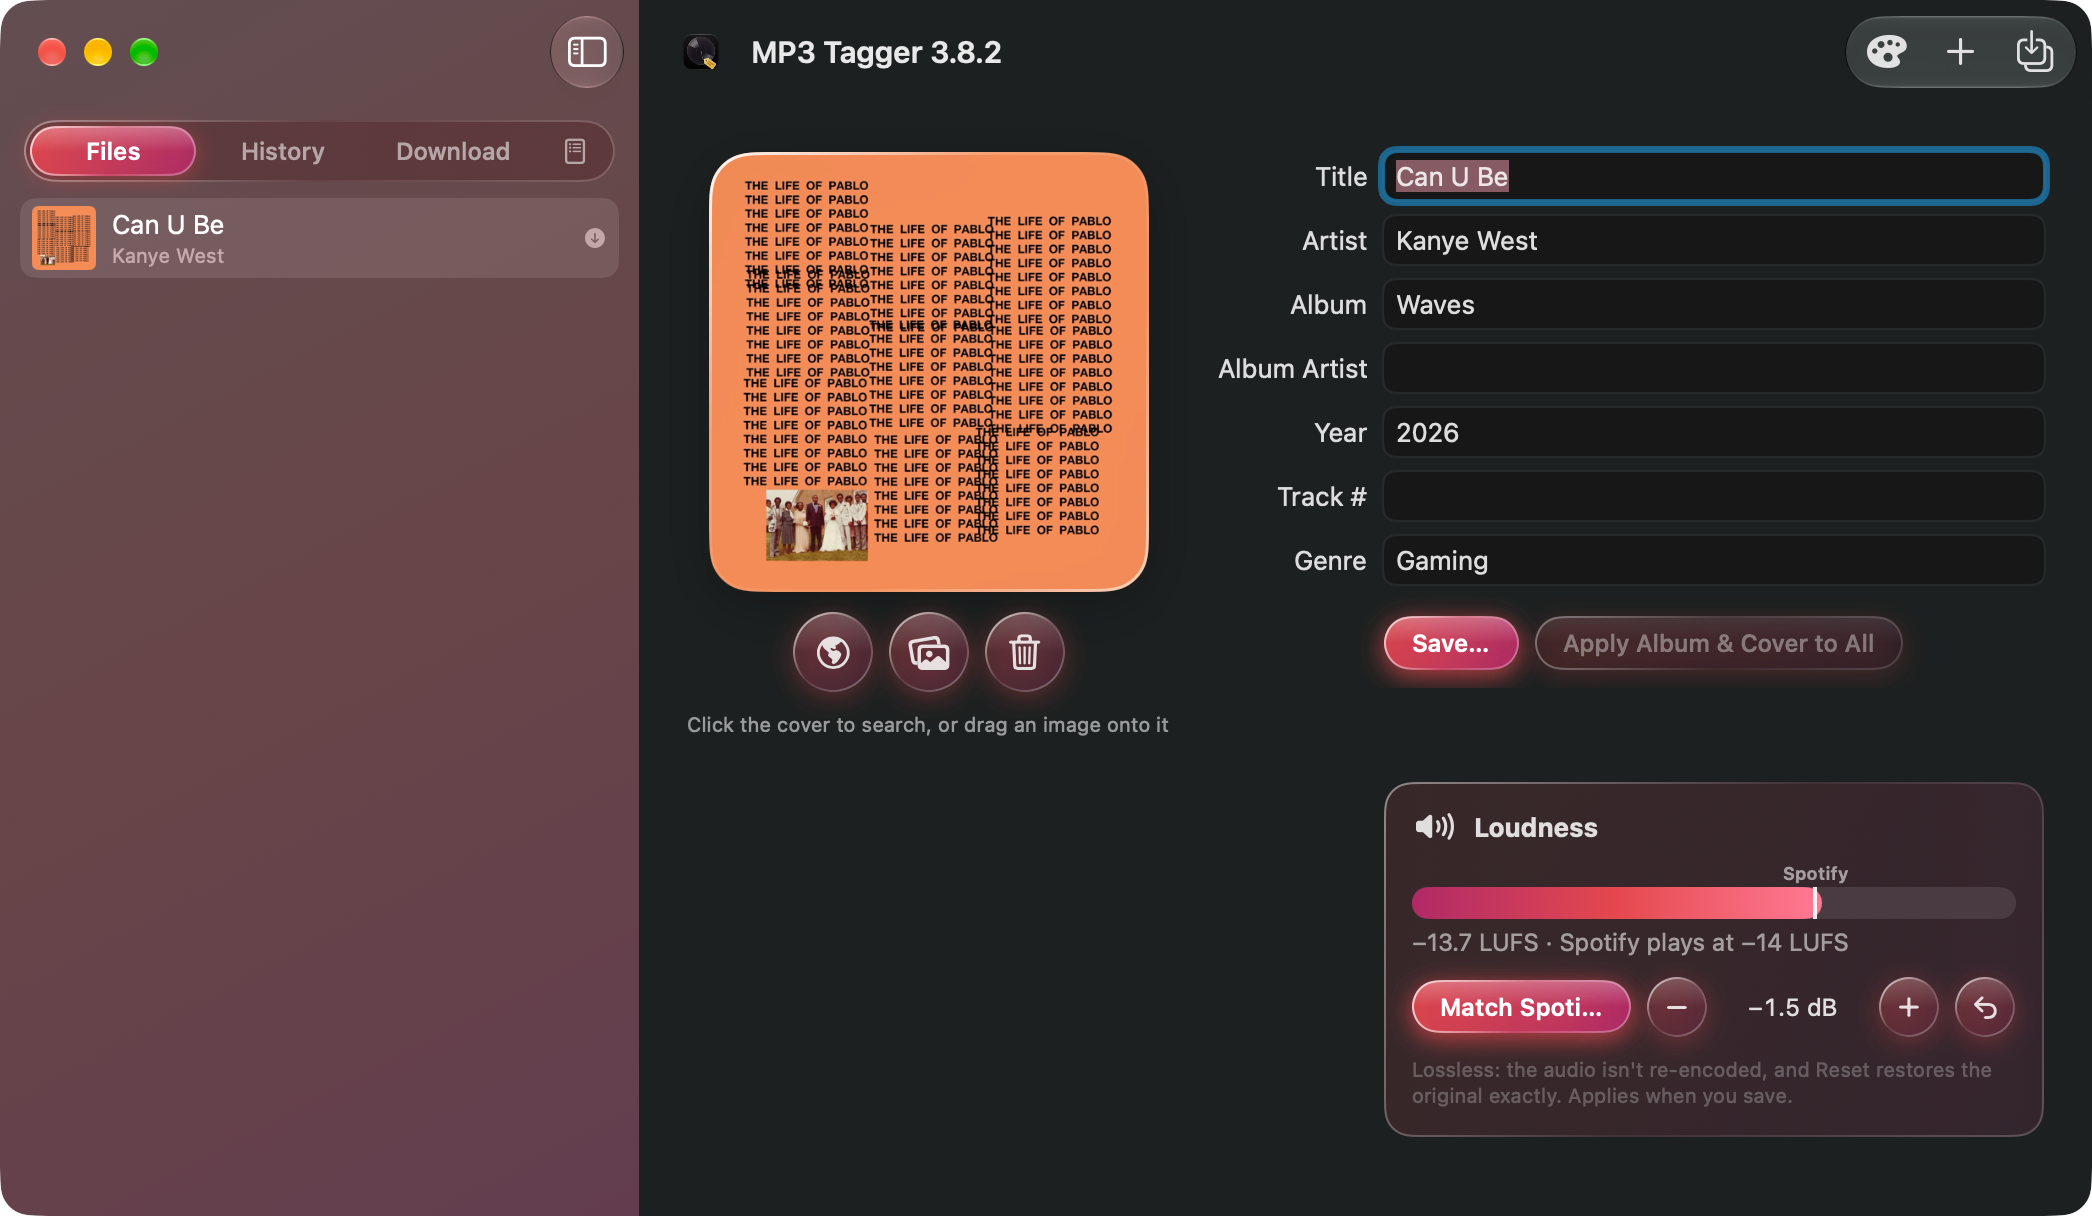
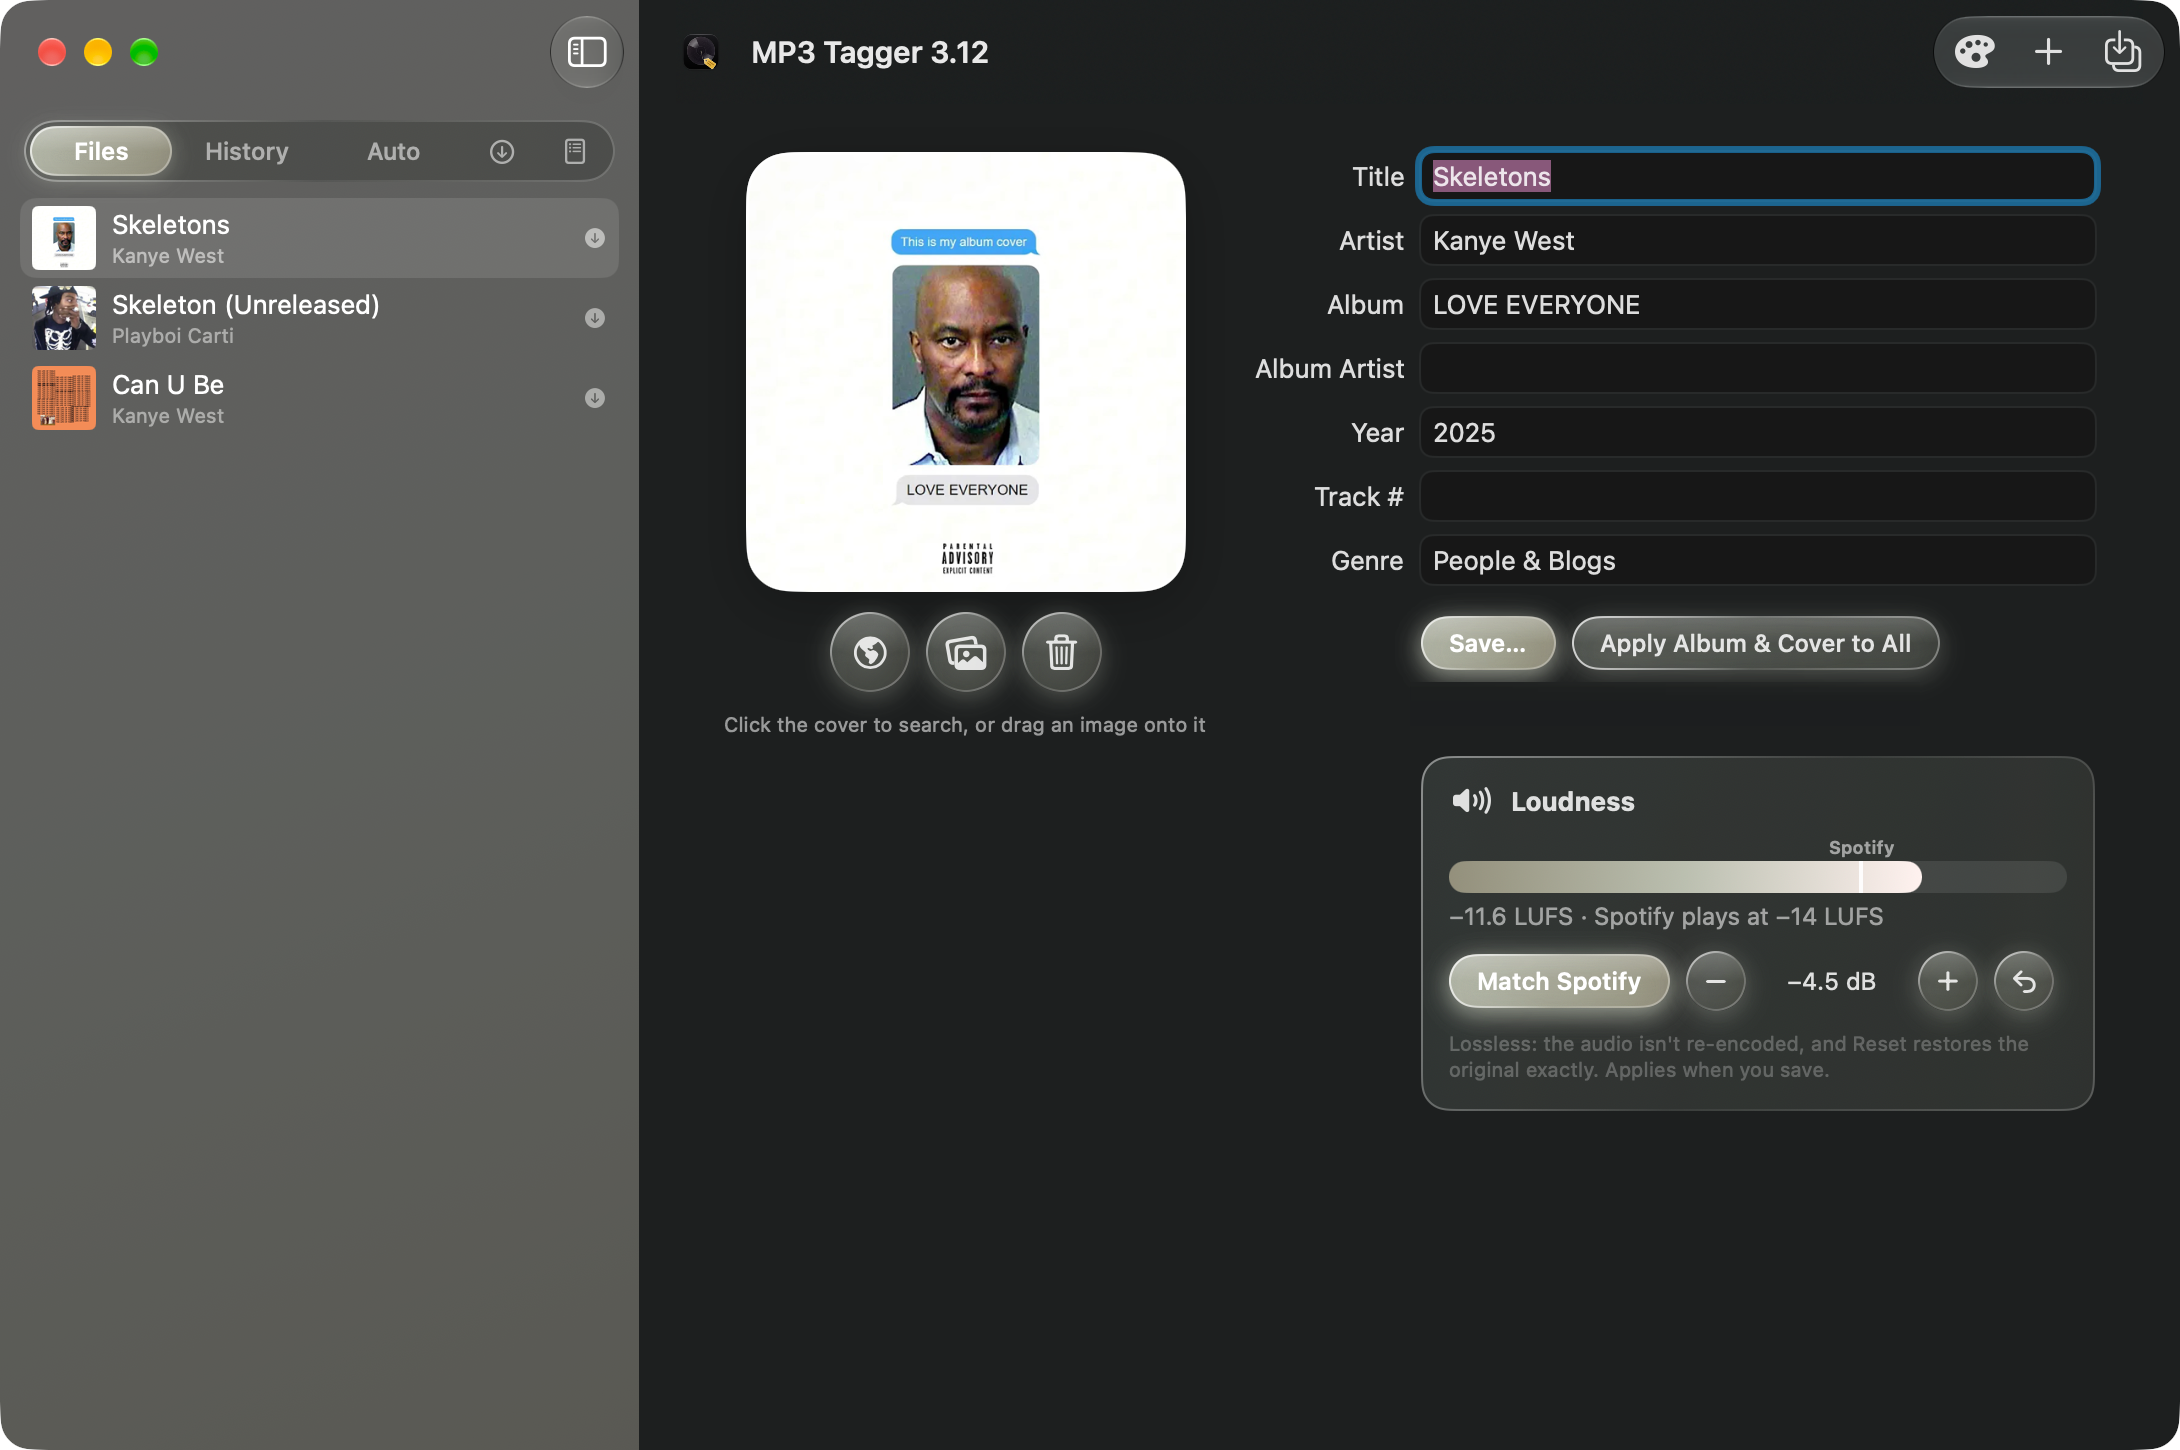
Retake README screenshots for 3.12, add screenshot launch helpers

diff --git a/Sources/Player.swift b/Sources/Player.swift
@@ -15,7 +15,9 @@ final class Player: NSObject, ObservableObject, AVAudioPlayerDelegate {
     private var player: AVAudioPlayer?
 
     /// Volume lives in `PlayerVolume` so dragging the slider doesn't redraw every song row.
-    fileprivate func applyVolume(_ v: Double) { player?.volume = Float(v) }
+    fileprivate func applyVolume(_ v: Double) { player?.volume = Self.testMute ? 0 : Float(v) }
+    /// `MP3TAGGER_MUTE=1` plays silently without touching the saved volume (used for screenshots).
+    static let testMute = ProcessInfo.processInfo.environment["MP3TAGGER_MUTE"] != nil
 
     func stop() {
         player?.stop()
@@ -49,7 +51,7 @@ final class Player: NSObject, ObservableObject, AVAudioPlayerDelegate {
             let p = try AVAudioPlayer(contentsOf: u)
             SongFinder.shared.stopPreview()      // one thing playing at a time
             p.delegate = self
-            p.volume = Float(PlayerVolume.shared.volume)
+            p.volume = Self.testMute ? 0 : Float(PlayerVolume.shared.volume)
             p.play()
             let tag = try? ID3.read(url: u)
             nowTitle = tag.map { $0.title.isEmpty ? u.deletingPathExtension().lastPathComponent : $0.title }

diff --git a/Sources/App.swift b/Sources/App.swift
@@ -311,6 +311,12 @@ struct ContentView: View {
             themeStore.applyAppearance()
             // finished downloads land in the Files list, ready to tweak
             Downloader.shared.onFinished = { [lib] url, job in lib.downloadFinished(url, job: job) }
+            // Screenshot helpers: MP3TAGGER_PLAY=<mp3> starts a song (use with MP3TAGGER_MUTE=1), MP3TAGGER_THEME=<seconds> opens the theme picker after that delay
+            let env = ProcessInfo.processInfo.environment
+            if let song = env["MP3TAGGER_PLAY"], Player.testMute { Player.shared.toggle(URL(fileURLWithPath: song)) }
+            if let delay = env["MP3TAGGER_THEME"].flatMap(Double.init) {      // seconds after launch
+                DispatchQueue.main.asyncAfter(deadline: .now() + delay) { lib.showThemePicker = true }
+            }
         }
         .environment(\.appTheme, themeStore.rendered)
         .environment(\.uiStyle, themeStore.style)
